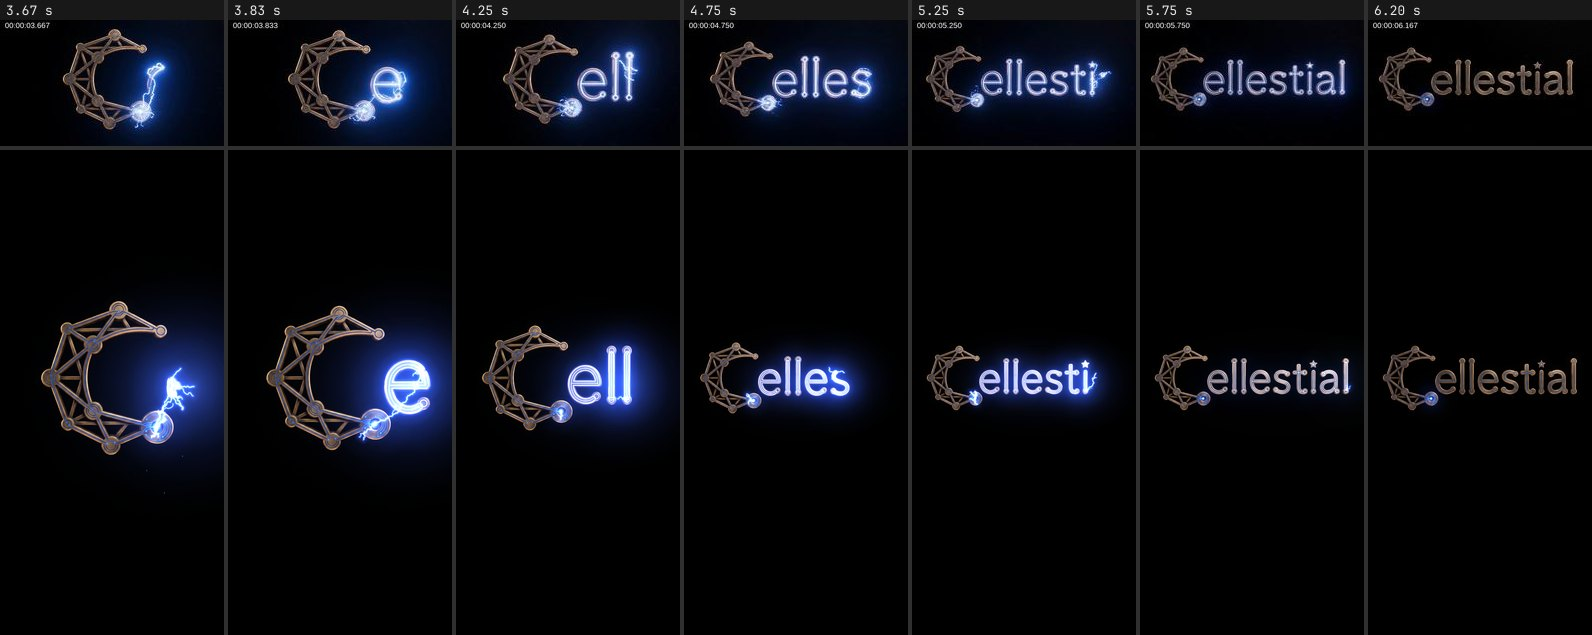
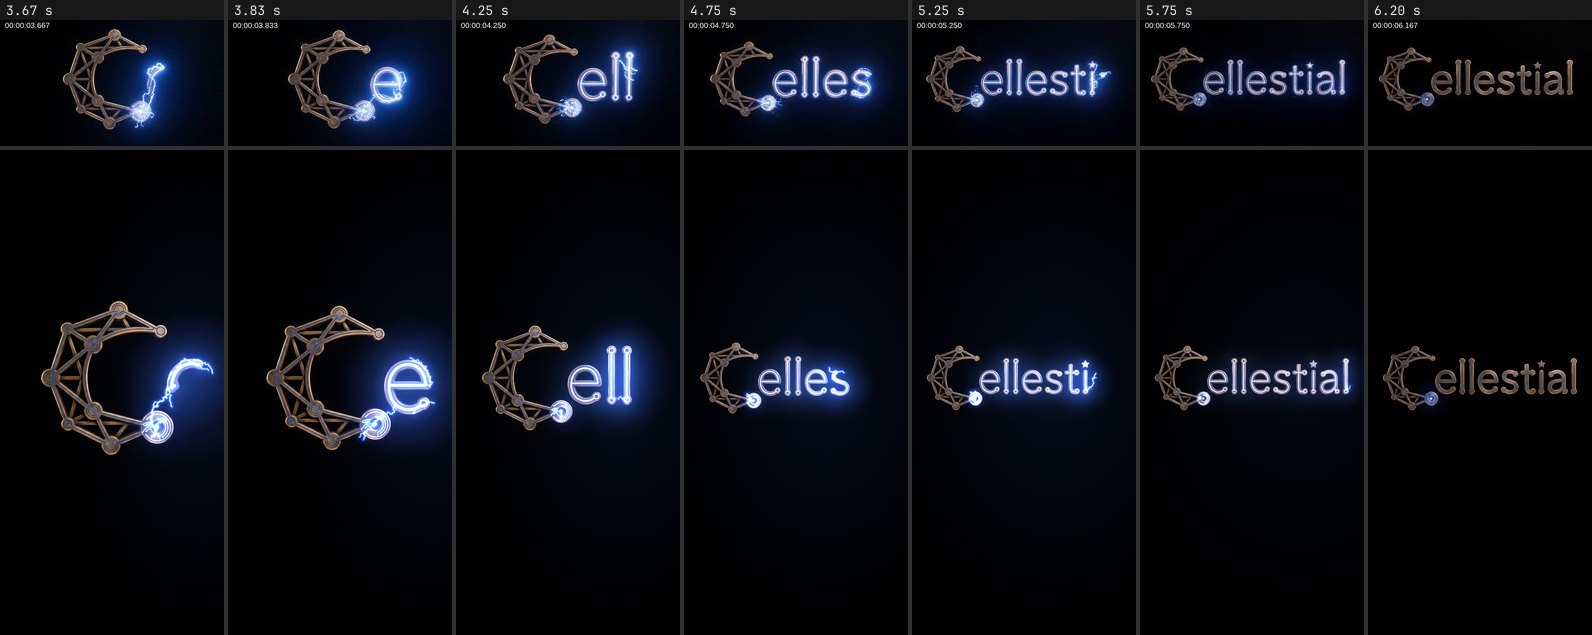
Loading polish, last: sheets rebuilt and looked at, rules timed again, the light measured
After the four polish items:
- The thin tubes hold their light a little longer into the cool-down (it
  starts at 5.66 s on a gentler curve), so 5.75 s matches the reference again.
- On a tall screen the wash below the node stays as dim as it was.
- The wide haze is laid into the low-resolution halo instead of the full
  frame: frame times at 1440x900 are back to 17 ms on average, 16.8 ms at the
  95th percentile (they had risen to 33 ms at the 95th).
- Fix: the haze's image smoothing is set where it is drawn. Without that the
  first hazy frame of a page differed by up to 2 levels from the same second
  drawn later; the order check caught it. Six frames, three pages, three
  orders now give identical files.
- tools/loader/light.mjs measures the haze behind the letters and the
  overload's wash against the reference; its report is
  refs/loading/compare/light.txt.

Sheets rebuilt from this code: desk-1, desk-2, phone-1, phone-2, short (the
A5 sheets came out byte for byte as before). Timed again at both sizes: full
7.74 s / 7.73 s, short 3.49 s / 3.47 s, skip at 1 s 2.76 s; phone with the
CPU slowed four times 7.92 s. PROGRESS.md: the next step is the Sky scene.

Claude-Session: https://claude.ai/code/session_012W2mjAvaNe8UQ2tuJLbV2x

diff --git a/src/experience/loader/painter.ts b/src/experience/loader/painter.ts
@@ -466,6 +466,34 @@ export function createPainter(canvas: HTMLCanvasElement, images: Images, script:
 		main.globalCompositeOperation = 'source-over';
 	}
 
+	/**
+	 * A round glow laid into the halo instead of onto the frame: for light so
+	 * soft that the halo's coarse grain is all it needs. It costs next to
+	 * nothing there, where on the frame it would be a full screen to fill.
+	 */
+	function fog(
+		sprite: HTMLCanvasElement,
+		space: Space,
+		x: number,
+		y: number,
+		rx: number,
+		alpha: number,
+		ry = rx,
+	): void {
+		if (alpha <= 0.004 || rx <= 0) return;
+		const { ctx: c, texel } = levels[1];
+		into(c, space, 1 / texel);
+		c.globalCompositeOperation = 'lighter';
+		c.globalAlpha = Math.min(1, alpha);
+		// Said here, every time: a context forgets it when its canvas is resized,
+		// and the same second must draw the same picture whatever came before.
+		c.imageSmoothingEnabled = true;
+		c.imageSmoothingQuality = 'high';
+		c.drawImage(sprite, x - rx, y - ry, rx * 2, ry * 2);
+		c.globalAlpha = 1;
+		glowing = true;
+	}
+
 	/** Never thinner on screen than `px` CSS pixels. */
 	const atLeast = (width: number, space: Space, px = 0.9) => Math.max(width, px / scaleOf(space));
 
@@ -922,7 +950,7 @@ export function createPainter(canvas: HTMLCanvasElement, images: Images, script:
 			const wide = Math.min(layout.w, 1.6 * layout.h);
 			const tall = Math.min(layout.h, 0.9 * layout.w);
 			const span = ((right - left) / 2) * cam.k;
-			spot(
+			fog(
 				mist,
 				'screen',
 				cam.x + ((left + right) / 2) * cam.k + 0.1 * wide,
@@ -933,7 +961,7 @@ export function createPainter(canvas: HTMLCanvasElement, images: Images, script:
 			);
 			const fresh = WORD.letters[newest];
 			const young = 1 - smoothstep(0.1, 0.7, t - script.letters[newest][1]);
-			spot(mist, 'word', fresh.x + fresh.w / 2, fresh.y + fresh.h / 2, 300, 0.36 * air * young);
+			fog(mist, 'word', fresh.x + fresh.w / 2, fresh.y + fresh.h / 2, 300, 0.36 * air * young);
 		}
 		if (lit) {
 			// The star lights with the word: its brass warmed white, a small glow.
@@ -1190,7 +1218,7 @@ export function createPainter(canvas: HTMLCanvasElement, images: Images, script:
 			main.globalAlpha = 1;
 		}
 		circuitNeon(t);
-		letterNeon(t, strokes, (1 - cool) ** 1.7);
+		letterNeon(t, strokes, (1 - cool) ** 1.2);
 		nodeLight(t);
 		strike(t);
 		writing(t, strokes);
@@ -1409,13 +1437,16 @@ export function createPainter(canvas: HTMLCanvasElement, images: Images, script:
 			down.addColorStop(0, 'rgb(0 0 0)');
 			down.addColorStop(at, 'rgb(0 0 0)');
 			const below = Math.min(0.99, at + 0.14);
-			down.addColorStop(below, 'rgb(0 0 0 / 0.8)');
 			const far = at + (2.6 * w0) / next.h;
 			if (far < 0.97) {
-				down.addColorStop(Math.max(below, far), 'rgb(0 0 0 / 0.74)');
-				down.addColorStop(Math.min(1, at + (7.5 * w0) / next.h), 'rgb(0 0 0 / 0.3)');
-				down.addColorStop(1, 'rgb(0 0 0 / 0.3)');
-			} else down.addColorStop(1, 'rgb(0 0 0 / 0.72)');
+				down.addColorStop(below, 'rgb(0 0 0 / 0.62)');
+				down.addColorStop(Math.max(below, far), 'rgb(0 0 0 / 0.5)');
+				down.addColorStop(Math.min(1, at + (7.5 * w0) / next.h), 'rgb(0 0 0 / 0.2)');
+				down.addColorStop(1, 'rgb(0 0 0 / 0.2)');
+			} else {
+				down.addColorStop(below, 'rgb(0 0 0 / 0.8)');
+				down.addColorStop(1, 'rgb(0 0 0 / 0.72)');
+			}
 			c.globalCompositeOperation = 'destination-in';
 			c.fillStyle = down;
 			c.fillRect(0, 0, 256, 64);

diff --git a/src/experience/loader/timeline.ts b/src/experience/loader/timeline.ts
@@ -102,7 +102,7 @@ export const FULL: Script = {
 		[5.56, 5.68],
 	],
 	star: 5.2,
-	cool: [5.6, 6.17],
+	cool: [5.66, 6.17],
 };
 
 /** A return visit in the same session: the C is already lit and in its place; one fast bolt writes the word. */

diff --git a/PROGRESS.md b/PROGRESS.md
@@ -14,14 +14,50 @@
 
 ## Exact next step
 
-**Loading polish pass (asked for by the orchestrator after its review, 20 Nov). Then the Sky scene.**
+**Sky scene (B, G1). The Loading scene is done, polish pass included, as far as it can be
+without the real sky.**
 
-The Loading scene is built, checkpointed and accepted (see the table). The orchestrator asked
-for one polish pass on the differences the table still lists, because the owner's bar is "it
-must feel like the reference video, not an approximation of it". In this order, each with its
-own checkpoint (build, test, lint, commit, push, the Loading row updated). An item that cannot
-be reached in two tries is left, said so in the row, and the next one begun. Nothing that
-already matches is to be touched.
+1. Read the Loading row of the table for what is and is not verified. The one thing Loading
+   still waits on: its A5 hand-off was looked at over the PLACEHOLDER sky (black, core circle
+   fixed at the middle of the screen). When the real sky is mounted, run
+   `node tools/loader/compare.mjs --only a5` again and look at `refs/loading/compare/a5-*.jpg`:
+   the sky's core must sit inside the little star at 0, travel and grow to the centre, and
+   the loader's shards must land on its rings as they fade in (the contract is `introPrime`,
+   `introProgress`, `coreCircle` in `src/experience/contracts.ts`).
+2. The sky's code is parked in `wip/sky/` (about 4,800 lines, never looked at by anyone but
+   its builder; no beads B8, no panels B10, no exit-button wiring). Its brief is in
+   `refs/briefs/`. Do as was done for Loading: checkpoint first, then move it into `src/`
+   with `git mv`, make it run on the real page (`/?scene=sky`), screenshot at 390×844 and
+   1440×900, compare against `refs/constellations/` and the B3/B4/B5 assets, fix, checkpoint.
+3. Dev server: `PUBLIC_TURNSTILE_SITE_KEY=1x00000000000000000000AA pnpm astro dev --port 4500`.
+
+## Where things stand
+
+| Piece | State | How it was verified |
+|---|---|---|
+| Spec and asset pack in the repo | done | — |
+| Derived assets, palette, constellations, locked tile copy, scene contract | done | Tests (tile copy is compared character for character with the addendum; 18 constellation tests). Asset sheets looked at: `refs/asset-qa/`, `refs/constellations/`. |
+| UI kit: Quicksand, brass button (5 forms), panel, both dialogs; `/contact` and `/start` restyled | done | Screenshots looked at, both sizes: `refs/foundation/kit/`. Contrast measured (all AA). Protected files: only class and style lines changed. |
+| Experience core: scene director, claims store, claim flow, page shell with placeholder scenes | done | Build, 96 tests + worker checks, lint all pass. Walk-through at both sizes looked at: `refs/foundation/walk/` (sky → exit button → roots → build request → star; menu to all four destinations; reduced motion; no JavaScript). |
+| **Independent review of the foundation** | **not done** | Three reviewers were started and cut off after six minutes. No findings exist. Do it as part of final verification. |
+| Loading (A1–A5) | **done against the reference, polish pass included, except what is listed here; A5 seen only over the placeholder sky** — `src/experience/loader/`, `src/components/scenes/Loader.astro`, asset module `scripts/assets/loader.mjs` (run by `node scripts/build-assets.mjs modules`; it writes `geometry.ts` and the matte, and run again it reproduces both) | Frozen at 14 times at 1440×900, no console errors, set beside the reference and looked at: `refs/loading/compare/desk-1.jpg`, `desk-2.jpg` (six rounds of fixes, then the polish pass of four items, each looked at close up: see the section below the table). Matches: the C's place and size; the order and tempo the circuits light in (a thin white wire with a blue glow); the cooling before the charge; the overload (a thin white-hot bolt from the top edge, the node lost in white with its rings showing through, a blue wash filling the bolt's half of the frame, spark dust); the camera pulling back; the first "e" thrown from the node by one tall arc and written in the reference's order; each letter written at the reference's moment as one thin white tube on its brass, with white ring nodes, in a wide navy haze; the node's rings lit white while the word is written; the cooling into the A4 picture itself. The two soft fields (the haze behind the letters, the overload's wash) were also measured, reference against build: `refs/loading/compare/light.txt`, written by `node tools/loader/light.mjs`. **Still different:** the lit circuits (1.33) are whiter, with less blue around them; the first arc (3.67) is less wild and the first piece of the "e" bolder; the overload's white has a more definite edge than the reference's bloom, and its sparks are coarser and fewer; close to the letter being written the haze is a little weaker (3.83) and the letters' edges cooler; once a letter is written the reference lets lightning play over it for longer, and it strikes the star (5.25) where the build only lights it; the node's lens keeps a darker blue ring round its white heart. **Phone (390×844, scale 2, touch):** the same 14 times looked at, `refs/loading/compare/phone-1.jpg`, `phone-2.jpg`: nothing clipped, the C is 62% of the width, the word fits at 87% with margins, the bolt comes down from the top edge. **Rules, measured in real time with `node tools/loader/measure.mjs` (mount to done) after the polish pass, desktop / phone:** full version 7.74 s / 7.73 s (must be 6.0–8.0); short version on a same-session reload 3.49 s / 3.47 s; tap at 1 s ends at 2.76 s / 2.76 s, the "a" key at 1 s 2.74 s / 2.75 s; Tab, Shift, Control, Alt, Meta, CapsLock at 1 s do not skip (7.75 s / 7.73 s); resize twice mid-run keeps the time (7.74 s / 7.75 s). Desktop only: each of the four pictures answering 404 in turn, the loader ends at once (0.01 s) and the sky is shown; sessionStorage blocked plays the full version (7.71 s); the sky's script failing to load, the loader fades out by itself at 6.62 s and the page opens on the Roots; the sky 30 s late, the wordmark holds 6 s and the loader goes at 12.65 s. Frame times 16.8–17.1 ms average at both sizes; phone with the CPU slowed 4×: 26.9 ms average, 50 ms at the 95th percentile, run 7.92 s. **A5 (the star-drop), both sizes, looked at:** `refs/loading/compare/a5-desk.jpg`, `a5-phone.jpg` (0, 0.15, 0.3, 0.5, 0.7, 0.9, 1.0 of its 1.5 s) and full-size crops: the star flashes and breaks into shards (eight or nine) cut from its own pixels, which tumble, catch the light, sweep out and home in on `sky.coreCircle()`, gone by 0.7; a blue-white light swells from the core and the letters bleach, nearest the star first, and sink, gone by 0.6. Over the placeholder sky this ends on black, and the light is centred on the middle of the screen, not on the star: to be looked at again with the real sky. **Short version** looked at again after the polish pass, both sizes: `refs/loading/compare/short.jpg` (the lit C in place, one bolt from the node writes the nine letters in about a second, cools, holds). **Also checked:** the same second always draws the same picture (two pages, and after seeking away and back: identical screenshots); after `done` the overlay is `display: none`, the canvas is 0×0 and the scene is the sky; with reduced motion the loader never shows; without script the cover is not on the page; the server-rendered C sits where the canvas draws it to 0.01 px at 1440×900, 390×844 and 844×390. **Not done:** frame times on a real phone (only headless Chromium with the CPU slowed); landscape phone, tablet and ultrawide framing were not looked at as pictures. |
+| Sky (B, G1) | **parked, unverified** — `wip/sky/`, about 4,800 lines including the scene entry and a test page | Never looked at by anyone but its builder. No beads (B8), no panels (B10), no exit button wiring yet. |
+| Effects (C4 flash, D2 burst, G2 warp) | **parked, unverified** — `wip/fx/`, about 2,600 lines, complete with a test page | Builder's own captures only: `refs/fx-wip/`. |
+| Roots (E1–E6) | not started (placeholder shows the five tiles as plain panels) | — |
+| Close (F1, F2) | placeholder (the two real buttons, wired to the existing flows) | Walk-through above. |
+| Chrome (C1–C3) | placeholder (logo, "studio", three bars, menu with four working teleports) | Walk-through above. |
+| Transitions wired (fall, crash, warp, A5 hand-off), B7 meaning reveal | not started | — |
+| Final verification: screenshot matrix, protected-systems diff | not started | — |
+
+"Parked" means the code is in `wip/`, outside `src/`, so the site builds and runs without it.
+The site on this branch today is the plain placeholder version described in the walk-through.
+
+## Loading: the polish pass the orchestrator asked for (done, 20 Nov)
+
+After its review the orchestrator accepted the Loading scene and asked for one polish pass on
+the differences still listed, because the owner's bar is "it must feel like the reference
+video, not an approximation of it": four items, in order, each checkpointed, none to take more
+than two tries. All four were reached.
 
 - **P1. The first "e" (3.67 s): done.** The arc is thrown from the main node up to the left of
   the letter, the tube shoots up from there and over the top, then runs down the left side
@@ -55,46 +91,10 @@ already matches is to be touched.
   3.25 and 3.33 beside the reference). The last sparks are gone by 3.5 s, as in the reference.
   Still different: the reference's white is a softer bloom with a less definite edge, and its
   sparks are finer and denser.
-- **Last:** re-run the desk and the phone sheets once
-  (`node tools/loader/compare.mjs --only desk,phone`), look at them, commit them.
-
-**After the polish pass: the Sky scene (B, G1).** The Loading scene is otherwise done as far as
-it can be without the real sky.
-
-1. Read the Loading row of the table for what is and is not verified. The one thing Loading
-   still waits on: its A5 hand-off was looked at over the PLACEHOLDER sky (black, core circle
-   fixed at the middle of the screen). When the real sky is mounted, run
-   `node tools/loader/compare.mjs --only a5` again and look at `refs/loading/compare/a5-*.jpg`:
-   the sky's core must sit inside the little star at 0, travel and grow to the centre, and
-   the loader's shards must land on its rings as they fade in (the contract is `introPrime`,
-   `introProgress`, `coreCircle` in `src/experience/contracts.ts`).
-2. The sky's code is parked in `wip/sky/` (about 4,800 lines, never looked at by anyone but
-   its builder; no beads B8, no panels B10, no exit-button wiring). Its brief is in
-   `refs/briefs/`. Do as was done for Loading: checkpoint first, then move it into `src/`
-   with `git mv`, make it run on the real page (`/?scene=sky`), screenshot at 390×844 and
-   1440×900, compare against `refs/constellations/` and the B3/B4/B5 assets, fix, checkpoint.
-3. Dev server: `PUBLIC_TURNSTILE_SITE_KEY=1x00000000000000000000AA pnpm astro dev --port 4500`.
-
-## Where things stand
-
-| Piece | State | How it was verified |
-|---|---|---|
-| Spec and asset pack in the repo | done | — |
-| Derived assets, palette, constellations, locked tile copy, scene contract | done | Tests (tile copy is compared character for character with the addendum; 18 constellation tests). Asset sheets looked at: `refs/asset-qa/`, `refs/constellations/`. |
-| UI kit: Quicksand, brass button (5 forms), panel, both dialogs; `/contact` and `/start` restyled | done | Screenshots looked at, both sizes: `refs/foundation/kit/`. Contrast measured (all AA). Protected files: only class and style lines changed. |
-| Experience core: scene director, claims store, claim flow, page shell with placeholder scenes | done | Build, 96 tests + worker checks, lint all pass. Walk-through at both sizes looked at: `refs/foundation/walk/` (sky → exit button → roots → build request → star; menu to all four destinations; reduced motion; no JavaScript). |
-| **Independent review of the foundation** | **not done** | Three reviewers were started and cut off after six minutes. No findings exist. Do it as part of final verification. |
-| Loading (A1–A5) | **done against the reference, except what is listed here; A5 seen only over the placeholder sky** — `src/experience/loader/`, `src/components/scenes/Loader.astro`, asset module `scripts/assets/loader.mjs` (re-run in place: reproduces `geometry.ts` and the matte unchanged) | Frozen at 14 times at 1440×900, no console errors, set beside the reference and looked at, six rounds of fixes: `refs/loading/compare/desk-1.jpg`, `desk-2.jpg`. Matches: the C's place and size, the order and tempo the circuits light in (a thin white wire with a blue glow), the cooling before the charge, the overload (thin white-hot bolt from the top edge, the node lost in a white disc, a broad blue wash over the right half, spark dust), the camera pulling back, each letter written at the reference's moment as a glass tube (white skin, brass down the middle, white filament, ring nodes) with blue air round it, the cooling into the A4 picture itself. **Still different** (besides what each polish item under "Exact next step" says of itself): the lit circuits (1.33) are whiter, with less blue around them, than the reference's. **Phone (390×844, scale 2, touch):** the same 14 times looked at, `refs/loading/compare/phone-1.jpg`, `phone-2.jpg`: nothing clipped, the C is 62% of the width, the word fits at 87% with margins, the bolt comes down from the top edge. **Rules, measured in real time with `node tools/loader/measure.mjs` (mount to done), desktop / phone:** full version 7.74 s / 7.75 s (must be 6.0–8.0); short version on a same-session reload 3.46 s / 3.47 s; tap at 1 s ends at 2.79 s / 2.90 s, the "a" key at 1 s 2.88 s / 2.78 s (2.76 s and 2.73 s on the desktop after the hand-off was shortened to 1.5 s); Tab, Shift, Control, Alt, Meta, CapsLock at 1 s do not skip (7.80 s / 7.78 s); each of the four pictures answering 404 in turn: the loader ends at once (0.01 s) and the sky is shown; resize twice mid-run keeps the time (7.78 s / 7.80 s); sessionStorage blocked plays the full version (7.78 s / 7.80 s); the sky's script failing to load: the loader fades out by itself at 6.65 s and the page opens on the Roots; the sky 30 s late: the wordmark holds 6 s and the loader goes at 12.63 s. Frame times 16.8–17.3 ms average at both sizes; phone with the CPU slowed 4×: 25.9 ms average, 50 ms at the 95th percentile, run 7.92 s. **A5 (the star-drop), both sizes, looked at:** `refs/loading/compare/a5-desk.jpg`, `a5-phone.jpg` (0, 0.15, 0.3, 0.5, 0.7, 0.9, 1.0 of its 1.5 s) and full-size crops: the star flashes and breaks into shards (eight or nine) cut from its own pixels, which tumble, catch the light, sweep out and home in on `sky.coreCircle()`, gone by 0.7; a blue-white light swells from the core and the letters bleach, nearest the star first, and sink, gone by 0.6. Over the placeholder sky this ends on black, and the light is centred on the middle of the screen, not on the star: to be looked at again with the real sky. **Short version** looked at, both sizes: `refs/loading/compare/short.jpg` (the lit C in place, one bolt from the node writes the nine letters in about a second, cools, holds). **Also checked:** the same second always draws the same picture (two pages, and after seeking away and back: identical screenshots); after `done` the overlay is `display: none`, the canvas is 0×0 and the scene is the sky; with reduced motion the loader never shows; without script the cover is not on the page; the server-rendered C sits where the canvas draws it to 0.01 px at 1440×900, 390×844 and 844×390. **Not done:** frame times on a real phone (only headless Chromium with the CPU slowed); landscape phone, tablet and ultrawide framing were not looked at as pictures. |
-| Sky (B, G1) | **parked, unverified** — `wip/sky/`, about 4,800 lines including the scene entry and a test page | Never looked at by anyone but its builder. No beads (B8), no panels (B10), no exit button wiring yet. |
-| Effects (C4 flash, D2 burst, G2 warp) | **parked, unverified** — `wip/fx/`, about 2,600 lines, complete with a test page | Builder's own captures only: `refs/fx-wip/`. |
-| Roots (E1–E6) | not started (placeholder shows the five tiles as plain panels) | — |
-| Close (F1, F2) | placeholder (the two real buttons, wired to the existing flows) | Walk-through above. |
-| Chrome (C1–C3) | placeholder (logo, "studio", three bars, menu with four working teleports) | Walk-through above. |
-| Transitions wired (fall, crash, warp, A5 hand-off), B7 meaning reveal | not started | — |
-| Final verification: screenshot matrix, protected-systems diff | not started | — |
-
-"Parked" means the code is in `wip/`, outside `src/`, so the site builds and runs without it.
-The site on this branch today is the plain placeholder version described in the walk-through.
+- **Last:** every sheet was rebuilt from the final code and the desk, phone and short-version
+  sheets looked at again; the A5 sheets came out byte for byte as before. Every rule was timed
+  again (the numbers in the table are from that run), and the same second still draws the
+  same picture in any order (six frames, three pages, three orders: identical files).
 
 ## The alignment harness
 
@@ -178,9 +178,11 @@ The site on this branch today is the plain placeholder version described in the 
 - `refs/alignment/` — the harness report and overlays. `refs/fx-wip/` — the effects builder's captures.
 - `refs/briefs/` — the full written brief for each scene (inside workflow scripts; read the
   text between the backticks of `WHAT` and `VERIFY`). Roots and Chrome briefs are there too.
-- `refs/loading/compare/` — the loading scene beside its reference (written by `tools/loader/compare.mjs`).
-- `tools/alignment/` — the harness. `tools/loader/` — `compare.mjs` (comparison sheets) and
-  `measure.mjs` (the loader's rules, timed in real time); each explains itself in its header.
+- `refs/loading/compare/` — the loading scene beside its reference (written by
+  `tools/loader/compare.mjs`), and `light.txt`, its soft light in numbers.
+- `tools/alignment/` — the harness. `tools/loader/` — `compare.mjs` (comparison sheets; `--big`
+  for close pairs), `measure.mjs` (the loader's rules, timed in real time) and `light.mjs`
+  (the haze and the wash measured against the reference); each explains itself in its header.
   `wip/` — parked scene code (see the table).
 
 ## Log
@@ -207,4 +209,8 @@ The site on this branch today is the plain placeholder version described in the 
   that, two runs of the loading-scene builder were working in this checkout at once (the
   orchestrator's first review message started a second run instead of reaching the first).
   Nothing was lost: the second run changed no code until the first had finished and handed
-  back; commit `4b39eed` was its note, now folded into "Exact next step".
+  back; commit `4b39eed` was its note.
+- 2026-11-20 — Loading, the polish pass: the first "e" thrown from the node and written in the
+  reference's order; lit letters as thin white tubes in a wide navy haze; the node's rings lit
+  white during the writing; the overload's wash evened out and its white opened so the rings
+  show. Four checkpoints, then the sheets rebuilt and looked at and the rules timed again.
